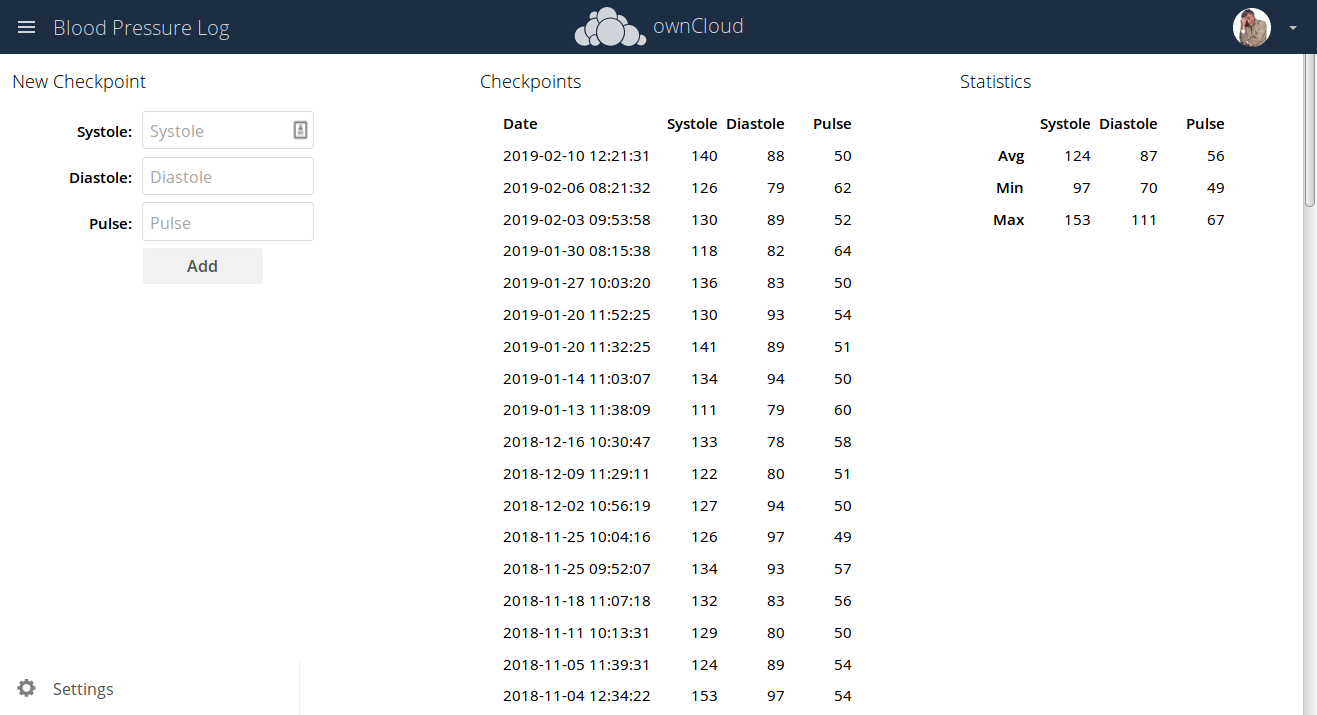
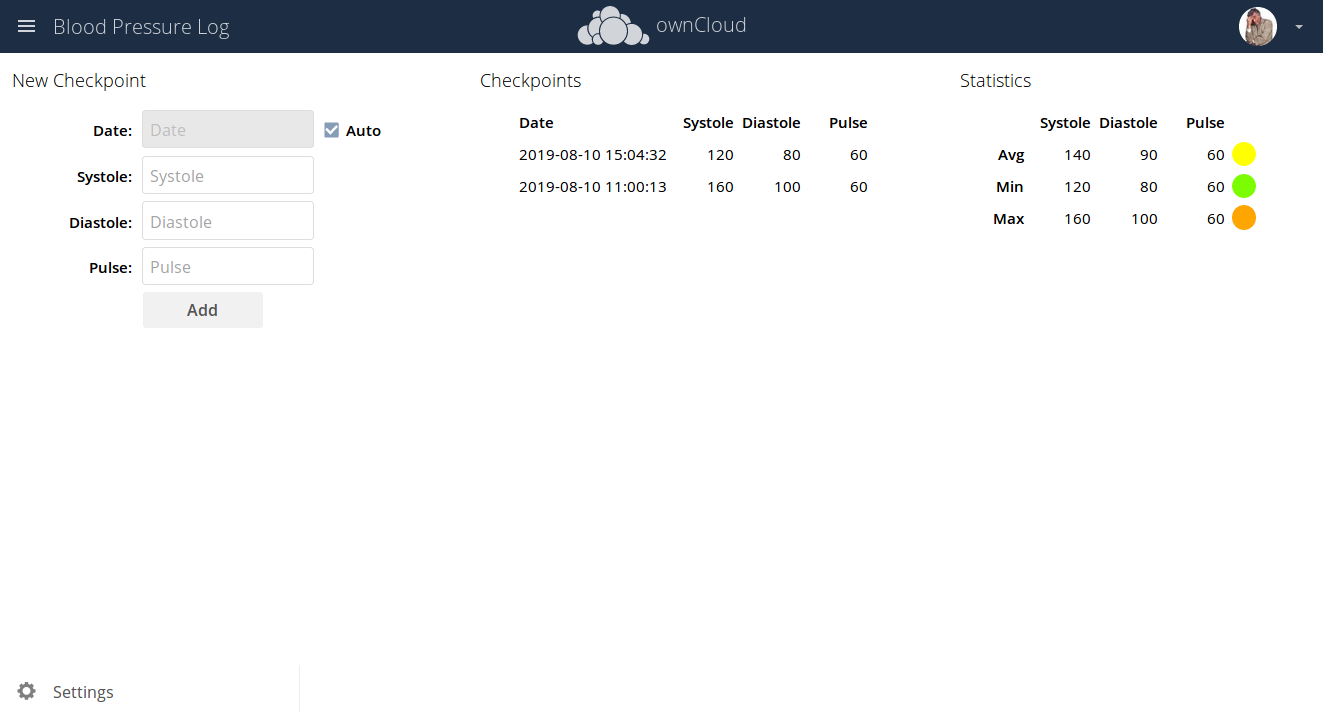
Release v0.3.0

diff --git a/README.md b/README.md
@@ -14,3 +14,7 @@ Please note, that I've created this app primarily for my personal use. I know th
 * Editing of existing records
 * Export/import your tracking history to/from a CSV-File.
 * RESTful API, for adding records only.
+
+### Release v0.3.0
+* Displays statistics with HT class mark.
+![](https://raw.githubusercontent.com/alfredbuehler/bplog/master/screenshots/statistics.png)
